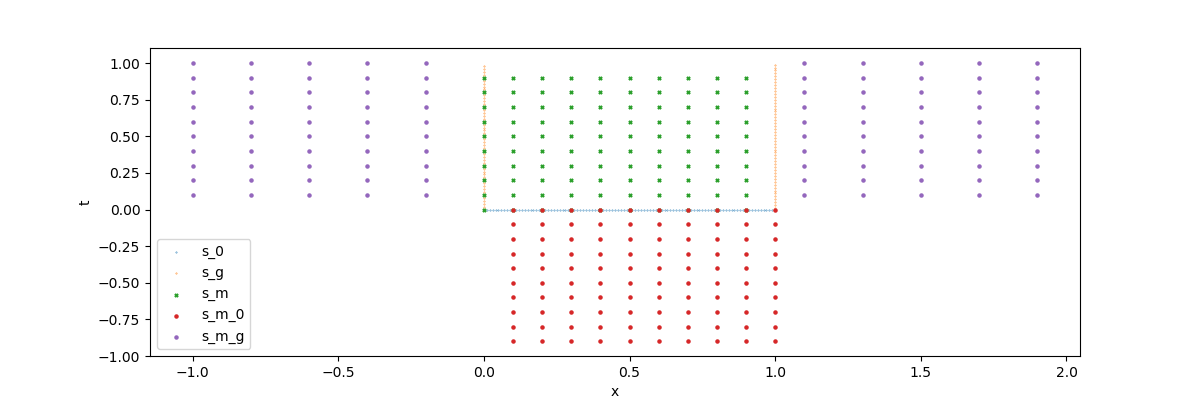
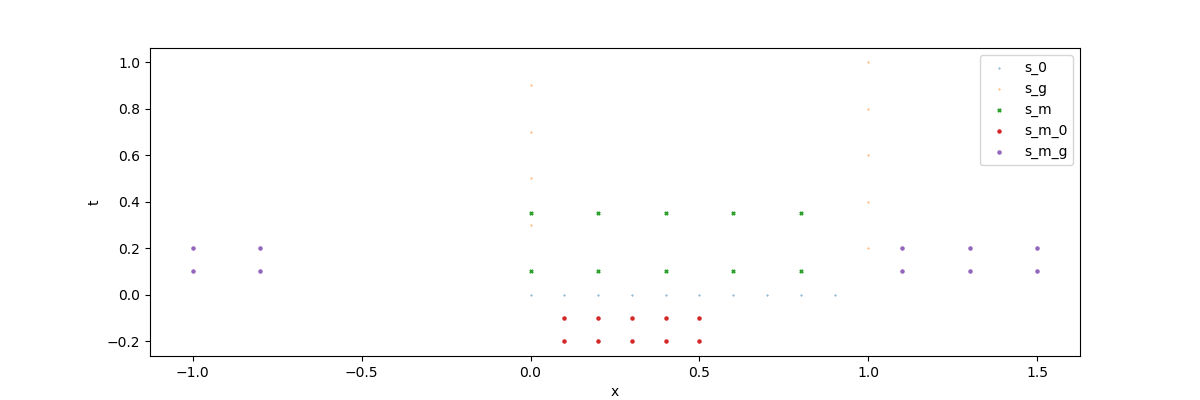
for lesson 13.11.19 and i have many questions

diff --git a/constant.py b/constant.py
@@ -47,6 +47,72 @@ s_m_0 = np.zeros((M_0, N+1))
 M_g = 100
 s_m_g = np.zeros((M_g, N+1))
 
+def test_observations_new():
+    global N,T,S,scope, R_0, s_0, Y_0, R_g, s_g, Y_g, M, s_m, u, M_0, s_m_0, M_g, s_m_g
+
+    N=1
+    
+    T = 1
+    
+    S = N+1
+    
+    scope = np.zeros((S,2))
+    scope[-1] = [0,T]
+    for i in range(N):
+        scope[i] = [0,1]
+    
+    R_0 = 10
+    
+    s_0 = np.zeros((R_0, S))
+    Y_0 = np.zeros(R_0)
+    
+    for i in range(R_0):
+        s_0[i] = [i/R_0,0]
+    
+    for i in range(R_0):
+        Y_0[i] = fn.y(s_0[i])
+
+    
+    R_g = 10
+    
+    s_g = np.zeros((R_g, S))
+    Y_g = np.zeros(R_g)
+    
+
+    for i in range(R_g):
+        s_g[i] = [i%2, (i+1)/R_g]
+
+    for i in range(R_g):
+        Y_g[i] = fn.y(s_g[i])
+    
+    
+    M = 10 
+    
+    s_m = np.zeros((M, S))
+    
+    for i in range(5):
+        for j in range(2):
+            s_m[i*2+j] = [i/5,j/4+0.1]
+    u = np.zeros(M)
+
+    for i in range(M):
+        u[i] = fn.U(s_m[i])
+    
+    M_0 = 10
+    s_m_0 = np.zeros((M_0, S))
+    for i in range(5):
+        for j in range(2):
+            s_m_0[i*2+j] = [i/10+1/10,-j/10-0.1]
+
+
+    M_g = 10
+    s_m_g = np.zeros((M_g, S))
+    for i in range(5):
+        for j in range(2):
+            s_m_g[i*2+j] = [(1.1)*(-1)**(i%2)+(i)/10,j/10+1/10]
+
+
+
 def test_observations():
     global N,T,S,scope, R_0, s_0, Y_0, R_g, s_g, Y_g, M, s_m, u, M_0, s_m_0, M_g, s_m_g
 
@@ -110,6 +176,7 @@ def test_observations():
     for i in range(10):
         for j in range(10):
             s_m_g[i*10+j] = [(1.1)*(-1)**(i%2)+(i)/10,j/10+1/10]
+
 
 
 

diff --git a/main.py b/main.py
@@ -80,18 +80,24 @@ def create_slar():
     
     A = np.append(A_1, A_2, axis= 0)
 
-    A_plus = np.dot(np.transpose(A), np.linalg.inv(np.dot(A,np.transpose(A))))
+    P_1 = np.dot(A,np.transpose(A))
+
+    # A_plus = np.dot(np.transpose(A), np.linalg.inv(np.dot(A,np.transpose(A))))
+
+    A_plus = np.dot( np.transpose(A) , np.linalg.inv(P_1) )
 
     u_ = np.dot(A_plus, Y_)
 
-    return u_
+
+    eps = np.dot(Y_, Y_) - np.dot( Y_,  np.dot( P_1, np.dot( np.linalg.inv(P_1), Y_ ) ) )
+    return u_, eps
     
 def y_res(s,u_):
     return y_model(s,cn.u,cn.s_m) + y_model(s,u_[:cn.M_0],cn.s_m_0) + y_model(s,u_[cn.M_0:],cn.s_m_g)
 
 
 def show_res():
-    u_ = create_slar()
+    u_,eps = create_slar()
     fig2 = pylab.figure()
     axes = Axes3D(fig2)
 
@@ -126,6 +132,12 @@ def show_res():
     for i in range(cn.R_g):
         print(y_res(cn.s_g[i], u_), '  ', fn.y(cn.s_g[i]), "ошибка: ", abs(y_res(cn.s_g[i], u_) - fn.y(cn.s_g[i])))
 
+
+    ## выводим ошибку
+
+    print('Ошибка: {0:}'.format(eps)) 
+
+
     axes.plot_surface(xx,tt,yy, label = "y(s)")
     axes.set_xlabel("x")                              # подпись у горизонтальной оси х
     axes.set_ylabel("t")
@@ -136,7 +148,7 @@ def show_res():
 
 
 if __name__ == '__main__':
-    cn.test_observations()
+    cn.test_observations_new()
     #print(cn.s_0)
     show_constant()
     show_test_y()

diff --git a/function.py b/function.py
@@ -8,7 +8,9 @@ def G(s):
     if s[1] <= 0:
         return 0
     else:
-        return 1/(4*math.pi*math.e**2*s[1])**0.5 *math.exp((-1*s[0]**2)/(4*math.e*s[1]))
+         return 1/(4*math.pi*(math.e**2)*s[1])**0.5 *math.exp((-1*s[0]**2)/(4*math.e*s[1]))
+
+        # return 1/(2*(math.pi * s[1])**0.5) * math.exp(-( s[1] + (s[0]-s[1])**2 / (4* s[1] )))  # пример из методички
 
 
 def y(s: np.ndarray)-> float:
@@ -16,13 +18,16 @@ def y(s: np.ndarray)-> float:
     #for i in range(s.shape[0]):
     for i in range(2):
         res+= (s[i] -0.5)**2
-    #res = s[1]**2 + s[0]**3
+    # res = s[1]**2 + s[0]**3
+
+    # res = s[0] + 1 + s[1]/4       # пример из методички
     return res
 
 
 def U(s):
-    return 2*(s[1]-0.5)- 2*math.e**2
-    # return 2*s[1] - 6*math.e**2*s[0]
+     return 2*(s[1]-0.5)- 2*math.e**2
+    #return 2*s[1] - 6*math.e**2*s[0]
+    # return  9/4 + s[1]/4 + s[0]  # пример из методички
 
 
 if __name__ == '__main__':
